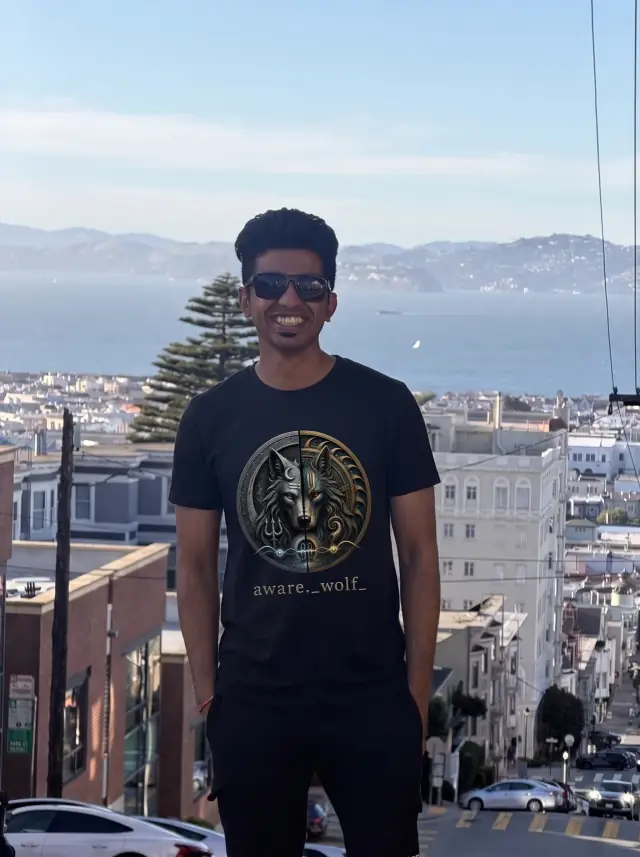
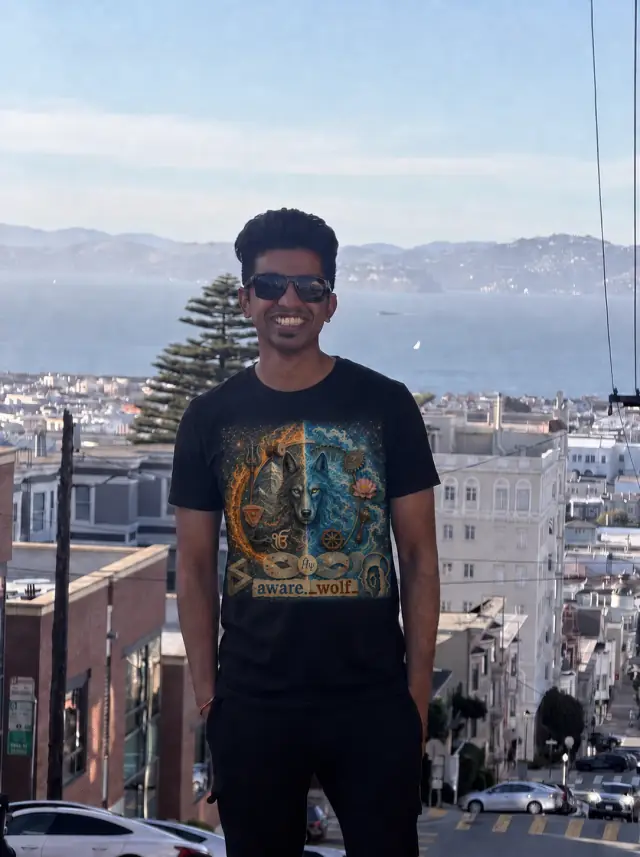
Update founder portrait with the v15 identity

diff --git a/awarewolf_brand-system_v3.html b/awarewolf_brand-system_v3.html
@@ -507,7 +507,7 @@ comment PLAY or AWAKE ↓</div><p style="margin-top:10px">The public handle is a
   </div>
   <div class="grid2" style="align-items:center">
     <div class="card"><img src="brand/ritwik-founder-portrait-v3.webp" width="640" height="857" alt="Ritwik Chakradhar smiling in sunglasses and an AwareWolf shirt above a city and bay"></div>
-    <div class="card"><h3 class="disp">founder portrait</h3><p><b>Current asset:</b> <code>ritwik-founder-portrait-v3.webp</code>. Use for bios, press kits and creator introductions. Keep the outdoor city-and-bay setting, natural light, sunglasses, smile, 3:4 portrait framing and complete shirt graphic. A tighter platform crop is permitted only when the face and full shirt emblem remain visible. The shirt print belongs to this approved photograph; standalone identity work always uses the v15 master.</p></div>
+    <div class="card"><h3 class="disp">founder portrait</h3><p><b>Current asset:</b> <code>ritwik-founder-portrait-v3.webp</code>. Use for bios, press kits and creator introductions. Keep the outdoor city-and-bay setting, natural light, sunglasses, smile, 3:4 portrait framing and complete shirt graphic. The shirt carries the complete latest v15 identity and exact <b>aware._wolf_</b> handle. A tighter platform crop is permitted only when the face and full shirt emblem remain visible. Standalone identity work always uses the v15 master rather than extracting the photographed print.</p></div>
   </div>
 </section>
 

diff --git a/README.md b/README.md
@@ -50,12 +50,12 @@ Do not auto-trace the master into a vector. Its material texture and surreal tra
 
 ## Founder photography
 
-- `brand/ritwik-founder-portrait-v3.webp` is the current founder portrait for bios, press kits, profile images, and creator introductions. It is the outdoor city-and-bay photograph supplied by Ritwik and is used without visual edits.
-- `brand/ritwik-founder-portrait-v3-master.png` is the exact supplied 1792×2400 production master. Do not load this large file on webpages.
+- `brand/ritwik-founder-portrait-v3.webp` is the current founder portrait for bios, press kits, profile images, and creator introductions. It keeps the supplied outdoor city-and-bay portrait and replaces the superseded shirt graphic with the complete v15 identity.
+- `brand/ritwik-founder-portrait-v3-master.png` is the 1084×1451 production master with the corrected v15 shirt print. Do not load this large file on webpages.
 - `brand/ritwik-founder-square-v1.webp` is archived. Do not use it in new work.
 - Keep the original 3:4 portrait whenever the placement allows. A tighter platform crop is permitted only when the face and complete shirt graphic remain visible.
-- Do not regenerate, beautify, replace the background, recolour the shirt, or separate the shirt emblem from its `aware._wolf_` handle.
-- The shirt print belongs to this approved photograph, but it is not a substitute logo master. For every standalone identity use, return to the v15 files above.
+- Do not further regenerate, beautify, replace the background, recolour the shirt, or separate the shirt emblem from its exact `aware._wolf_` handle.
+- The shirt uses the complete latest v15 identity, including its sacred-material composition, continuous quantum bridge and exact trailing underscore. For every standalone identity use, return to the v15 files above rather than extracting the photographed print.
 - The current web derivative is 640×857 and below 60 KB.
 
 ## Deploy to Netlify
